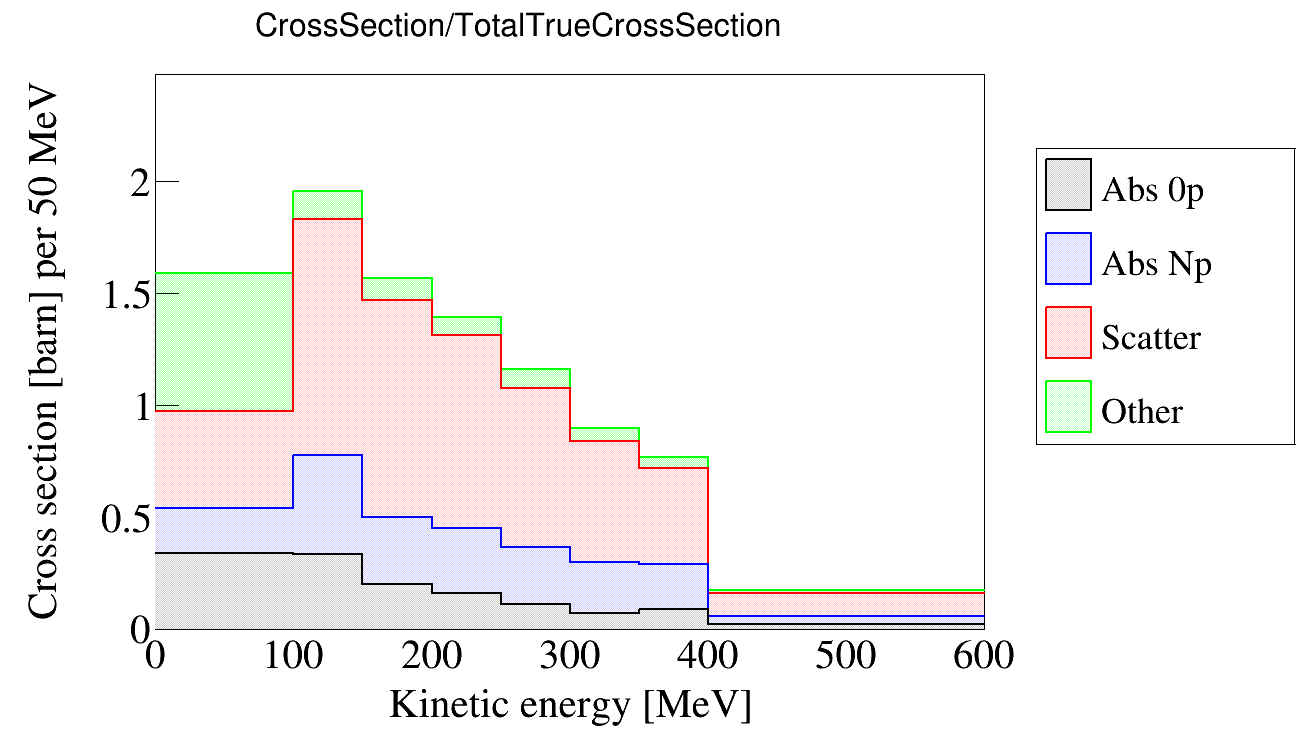
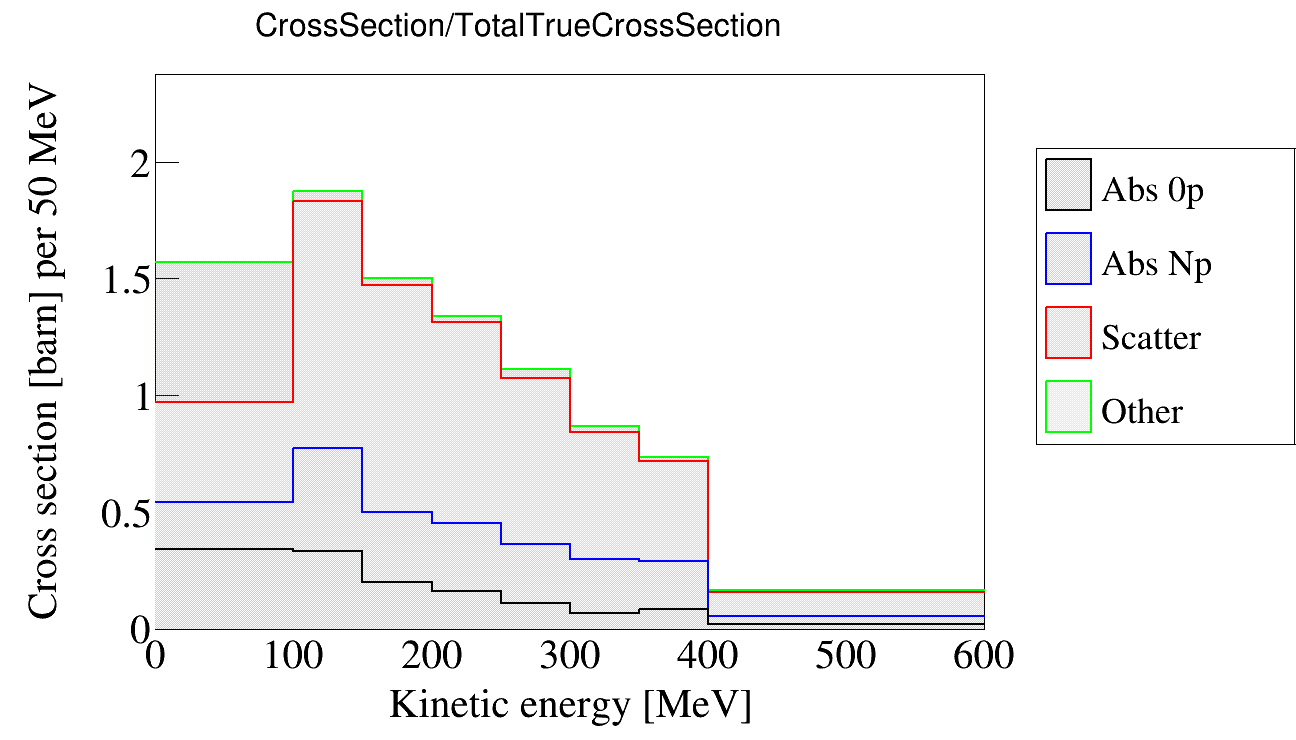
Track true charge exchange events

diff --git a/RecoClassify3Cat.cc b/RecoClassify3Cat.cc
@@ -515,6 +515,13 @@ void RecoClassify3Cat() {
     TH1D* hTrueScatterKERejManyPions = new TH1D("hTrueScatterKERejManyPions", "hTrueScatterKERejManyPions;;", NUM_BINS_KE, ARRAY_KE_BINS.data());
     TH1D* hTrueScatterKERejClusters  = new TH1D("hTrueScatterKERejClusters", "hTrueScatterKERejClusters;;", NUM_BINS_KE, ARRAY_KE_BINS.data());
 
+    // True charge exchange
+    TH1D* hTrueChExchKE          = new TH1D("hTrueChExchKE", "hTrueChExchKE;;", NUM_BINS_KE, ARRAY_KE_BINS.data());
+    TH1D* hTrueChExchKEAsAbs0p   = new TH1D("hTrueChExchKEAsAbs0p", "hTrueChExchKEAsAbs0p;;", NUM_BINS_KE, ARRAY_KE_BINS.data());
+    TH1D* hTrueChExchKEAsAbsNp   = new TH1D("hTrueChExchKEAsAbsNp", "hTrueChExchKEAsAbsNp;;", NUM_BINS_KE, ARRAY_KE_BINS.data());
+    TH1D* hTrueChExchKEAsScatter = new TH1D("hTrueChExchKEAsScatter", "hTrueChExchKEAsScatter;;", NUM_BINS_KE, ARRAY_KE_BINS.data());
+    TH1D* hTrueChExchKERejected  = new TH1D("hTrueChExchKERejected", "hTrueChExchKERejected;;", NUM_BINS_KE, ARRAY_KE_BINS.data());
+
     ////////////////
     // BDT scores //
     ////////////////
@@ -1450,8 +1457,10 @@ void RecoClassify3Cat() {
         } else if (backgroundType == 6 || backgroundType == 12) {
             hTrueScatterKE->Fill(truthPrimaryVertexKE * 1000);
             hTrueAllKE->Fill(truthPrimaryVertexKE * 1000);
+        } else if (backgroundType == 7) {
+            hTrueChExchKE->Fill(truthPrimaryVertexKE * 1000);
+            hTrueAllKE->Fill(truthPrimaryVertexKE * 1000);
         } else if (
-            backgroundType == 7 ||
             backgroundType == 8 ||
             backgroundType == 9 ||
             backgroundType == 10 ||
@@ -1473,6 +1482,8 @@ void RecoClassify3Cat() {
             } else if (backgroundType == 6 || backgroundType == 12) {
                 hTrueScatterKERejected->Fill(truthPrimaryVertexKE * 1000);
                 hTrueScatterKERejDataProds->Fill(truthPrimaryVertexKE * 1000);
+            } else if (backgroundType == 7) {
+                hTrueChExchKERejected->Fill(truthPrimaryVertexKE * 1000);
             }
             continue;
         }
@@ -1653,6 +1664,8 @@ void RecoClassify3Cat() {
             } else if (backgroundType == 6 || backgroundType == 12) {
                 hTrueScatterKERejected->Fill(truthPrimaryVertexKE * 1000);
                 hTrueScatterKERejElectron->Fill(truthPrimaryVertexKE * 1000);
+            } else if (backgroundType == 7) {
+                hTrueChExchKERejected->Fill(truthPrimaryVertexKE * 1000);
             }
             continue;
         }
@@ -1672,6 +1685,8 @@ void RecoClassify3Cat() {
             } else if (backgroundType == 6 || backgroundType == 12) {
                 hTrueScatterKERejected->Fill(truthPrimaryVertexKE * 1000);
                 hTrueScatterKERejRedVol->Fill(truthPrimaryVertexKE * 1000);
+            } else if (backgroundType == 7) {
+                hTrueChExchKERejected->Fill(truthPrimaryVertexKE * 1000);
             }
             continue;
         }
@@ -1687,6 +1702,8 @@ void RecoClassify3Cat() {
             } else if (backgroundType == 6 || backgroundType == 12) {
                 hTrueScatterKERejected->Fill(truthPrimaryVertexKE * 1000);
                 hTrueScatterKERejPID->Fill(truthPrimaryVertexKE * 1000);
+            } else if (backgroundType == 7) {
+                hTrueChExchKERejected->Fill(truthPrimaryVertexKE * 1000);
             }
             continue;
         }
@@ -1804,6 +1821,8 @@ void RecoClassify3Cat() {
                 } else if (backgroundType == 6 || backgroundType == 12) {
                     hTrueScatterKERejected->Fill(truthPrimaryVertexKE * 1000);
                     hTrueScatterKERejManyPions->Fill(truthPrimaryVertexKE * 1000);
+                } else if (backgroundType == 7) {
+                    hTrueChExchKERejected->Fill(truthPrimaryVertexKE * 1000);
                 }
                 continue;
             }
@@ -1843,6 +1862,8 @@ void RecoClassify3Cat() {
             } else if (backgroundType == 6 || backgroundType == 12) {
                 hTrueScatterKEAsScatter->Fill(truthPrimaryVertexKE * 1000);
                 if (TrueEnergyBin != -1) TrueScatterAsByBin.at(TrueEnergyBin).at(2)->Fill(energyAtVertex);
+            } else if (backgroundType == 7) {
+                hTrueChExchKEAsScatter->Fill(truthPrimaryVertexKE * 1000);
             }
 
             // TODO: maybe check not rejecting more than 1 pion
@@ -1879,6 +1900,8 @@ void RecoClassify3Cat() {
             } else if (backgroundType == 6 || backgroundType == 12) {
                 hTrueScatterKEAsAbsNp->Fill(truthPrimaryVertexKE * 1000);
                 if (TrueEnergyBin != -1) TrueScatterAsByBin.at(TrueEnergyBin).at(1)->Fill(energyAtVertex);
+            } else if (backgroundType == 7) {
+                hTrueChExchKEAsAbsNp->Fill(truthPrimaryVertexKE * 1000);
             }
 
             continue;
@@ -2039,6 +2062,8 @@ void RecoClassify3Cat() {
             } else if (backgroundType == 6 || backgroundType == 12) {
                 hTrueScatterKEAsAbs0p->Fill(truthPrimaryVertexKE * 1000);
                 if (TrueEnergyBin != -1) TrueScatterAsByBin.at(TrueEnergyBin).at(0)->Fill(energyAtVertex);
+            } else if (backgroundType == 7) {
+                hTrueChExchKEAsAbs0p->Fill(truthPrimaryVertexKE * 1000);
             }
 
             continue;
@@ -2078,6 +2103,8 @@ void RecoClassify3Cat() {
         } else if (backgroundType == 6 || backgroundType == 12) {
             hTrueScatterKERejected->Fill(truthPrimaryVertexKE * 1000);
             hTrueScatterKERejClusters->Fill(truthPrimaryVertexKE * 1000);
+        } else if (backgroundType == 7) {
+            hTrueChExchKERejected->Fill(truthPrimaryVertexKE * 1000);
         }
     }
 
@@ -2512,12 +2539,13 @@ void RecoClassify3Cat() {
 
         // True interacting KE
         {hTrueAllKE},
-        {hTrueAbs0pKE, hTrueAbsNpKE, hTrueScatterKE, hTrueOtherKE},
+        {hTrueAbs0pKE, hTrueAbsNpKE, hTrueScatterKE, hTrueChExchKE, hTrueOtherKE},
 
         // True events classified breakdown
         {hTrueAbs0pKEAsAbs0p, hTrueAbs0pKEAsAbsNp, hTrueAbs0pKEAsScatter, hTrueAbs0pKERejected},
         {hTrueAbsNpKEAsAbs0p, hTrueAbsNpKEAsAbsNp, hTrueAbsNpKEAsScatter, hTrueAbsNpKERejected},
         {hTrueScatterKEAsAbs0p, hTrueScatterKEAsAbsNp, hTrueScatterKEAsScatter, hTrueScatterKERejected},
+        {hTrueChExchKEAsAbs0p, hTrueChExchKEAsAbsNp, hTrueChExchKEAsScatter, hTrueChExchKERejected},
 
         // Rejected events
         {hTrueAbs0pKERejDataProds, hTrueAbs0pKERejElectron, hTrueAbs0pKERejRedVol, hTrueAbs0pKERejPID, hTrueAbs0pKERejManyPions, hTrueAbs0pKERejClusters},
@@ -2571,9 +2599,10 @@ void RecoClassify3Cat() {
 
         // True interacting KE
         {"All"},
-        {"Abs 0p", "Abs Np", "Scatter", "Other"},
+        {"Abs 0p", "Abs Np", "Scatter", "Ch. exch.", "Other"},
 
         // True events classified breakdown
+        {"Abs 0p", "Abs Np", "Scatter", "Rejected"},
         {"Abs 0p", "Abs Np", "Scatter", "Rejected"},
         {"Abs 0p", "Abs Np", "Scatter", "Rejected"},
         {"Abs 0p", "Abs Np", "Scatter", "Rejected"},
@@ -2634,6 +2663,7 @@ void RecoClassify3Cat() {
         "TrueInteracting/TrueAbs0pBreakdown",
         "TrueInteracting/TrueAbsNpBreakdown",
         "TrueInteracting/TrueScatterBreakdown",
+        "TrueInteracting/TrueChExchBreakdown",
 
         // Rejected events
         "Rejected/TrueAbs0pRej",
@@ -2688,6 +2718,7 @@ void RecoClassify3Cat() {
         "Kinetic energy [MeV]",
 
         // True events classified breakdown
+        "Kinetic energy [MeV]",
         "Kinetic energy [MeV]",
         "Kinetic energy [MeV]",
         "Kinetic energy [MeV]",
@@ -2748,6 +2779,7 @@ void RecoClassify3Cat() {
         "Counts",
         "Counts",
         "Counts",
+        "Counts",
 
         // Rejected events
         "Counts",
@@ -2805,6 +2837,7 @@ void RecoClassify3Cat() {
         true,
         true,
         true,
+        true,
 
         // Rejected events
         true,
@@ -2859,6 +2892,7 @@ void RecoClassify3Cat() {
         {false, false, false, false, false},
 
         // True events classified breakdown
+        {false, false, false, false, false},
         {false, false, false, false, false},
         {false, false, false, false, false},
         {false, false, false, false, false},
